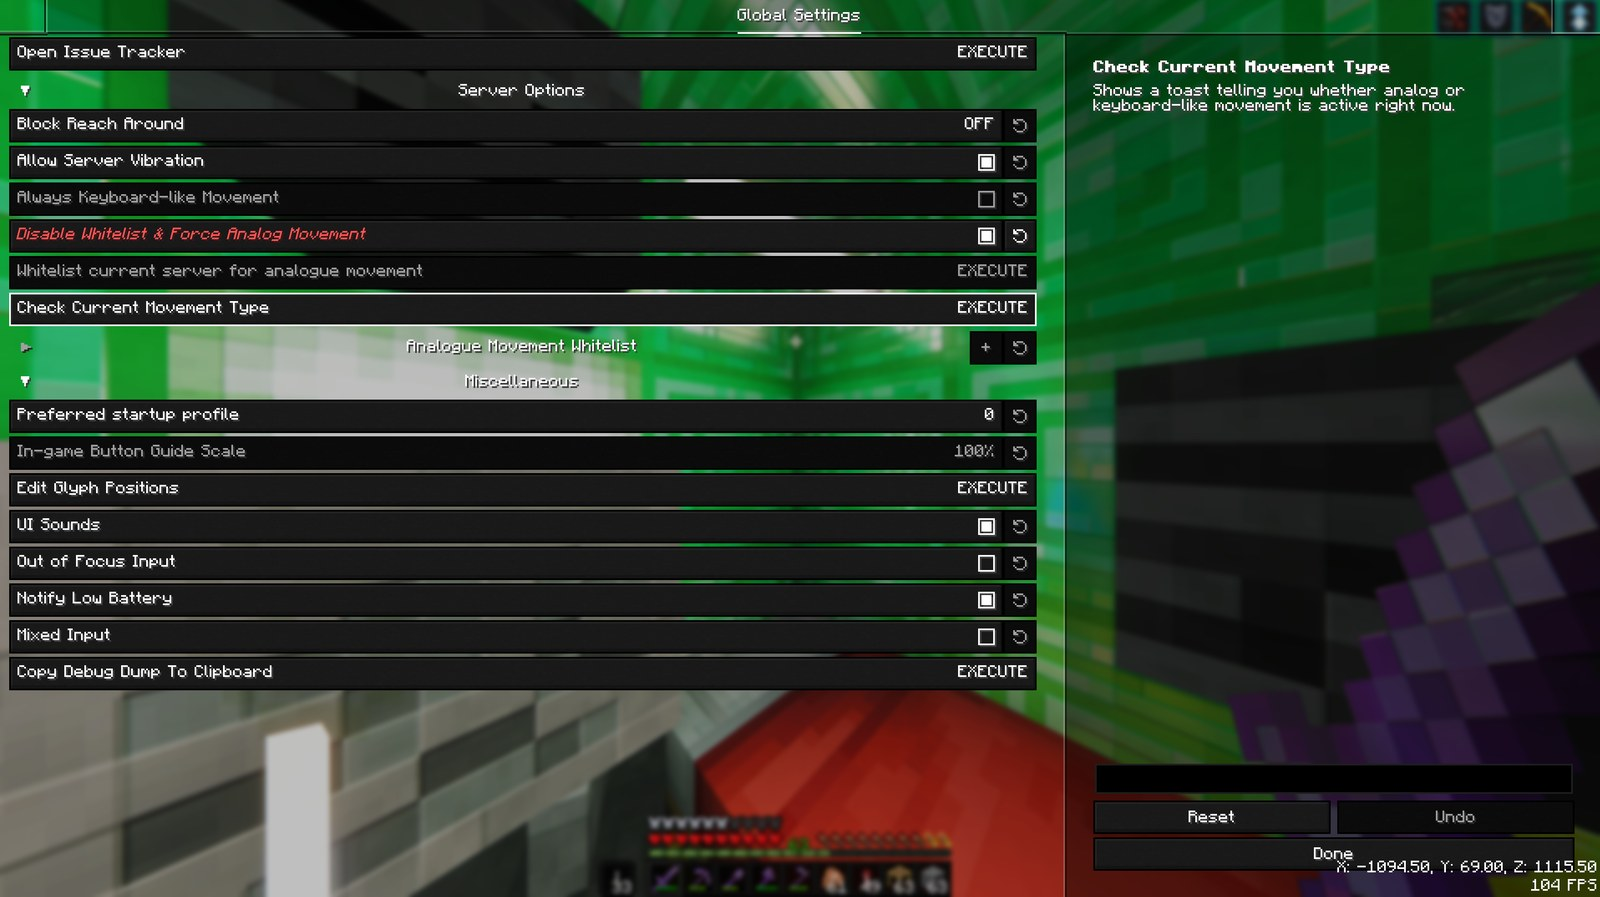
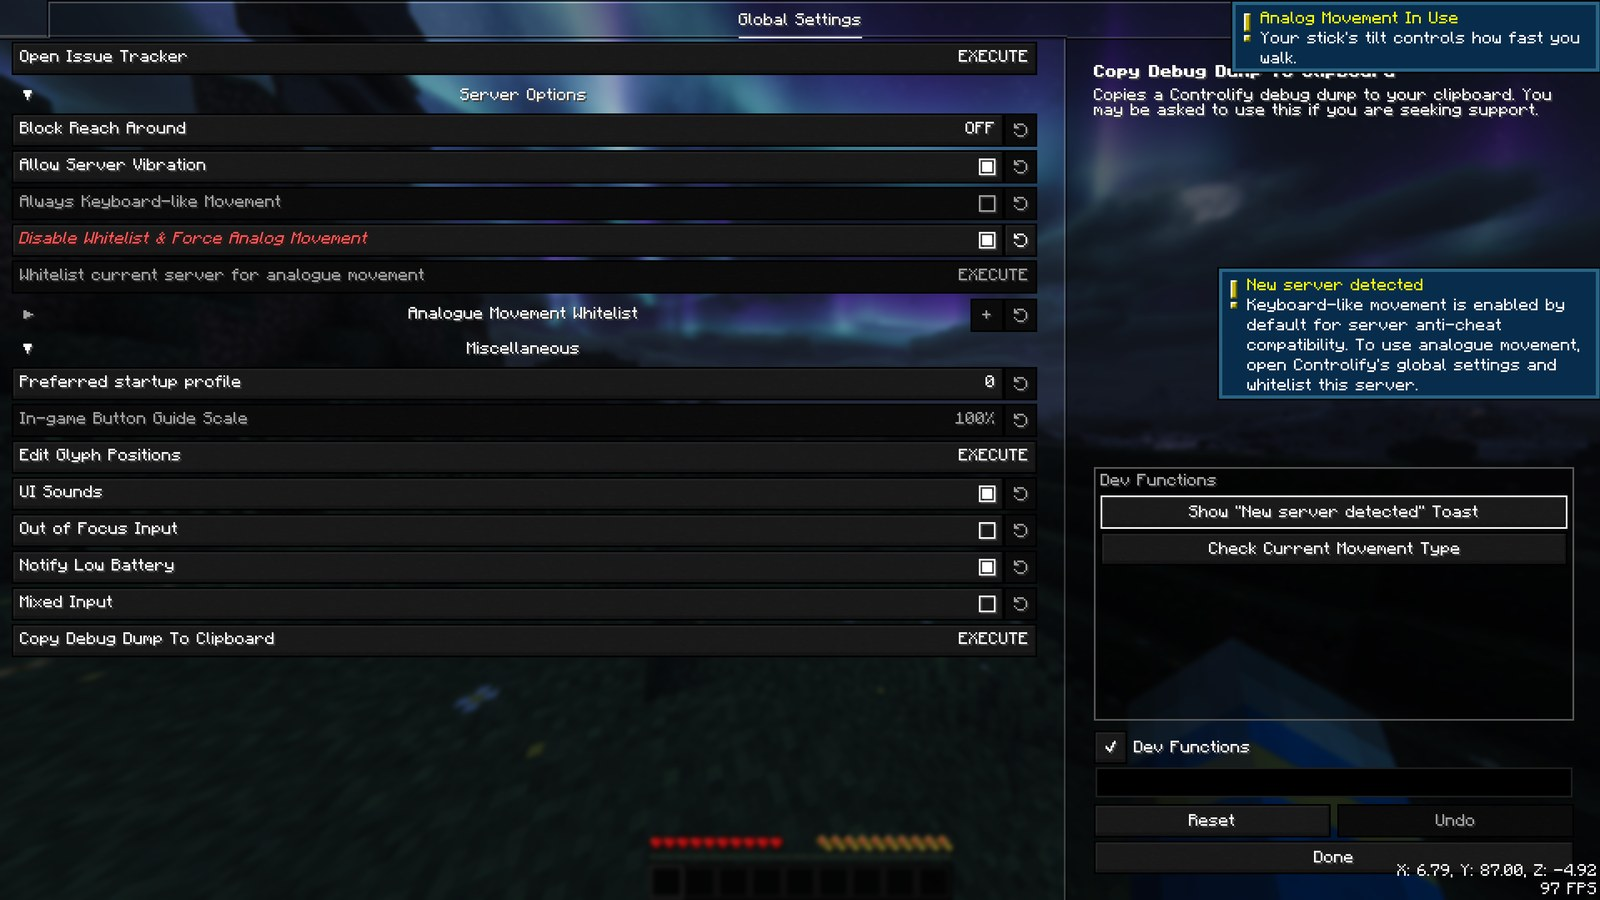
README: add Dev Functions panel section, update screenshot

diff --git a/README.md b/README.md
@@ -10,9 +10,9 @@ A mod that adds the best **controller support** for Minecraft: Java Edition.
 
 ## What's different in this fork
 
-This is an unofficial custom build of isXander's Controlify. It adds three new options to Controlify's **Global Settings** screen, fixes a virtual mouse bug that is suspected to also affect the official 26.3 release, and removes the "New server detected" toast on Realms. Everything else works the same as the official mod.
+This is an unofficial custom build of isXander's Controlify. It adds new options and a **Dev Functions** panel to Controlify's **Global Settings** screen, fixes a virtual mouse bug that is suspected to also affect the official 26.3 release, and removes the "New server detected" toast on Realms. Everything else works the same as the official mod.
 
-<img alt="Global Settings screen with the new options" src="assets/fork/global-settings.jpg" width="700">
+<img alt="Global Settings screen with the new options and the Dev Functions panel" src="assets/fork/global-settings.jpg" width="700">
 
 ### Disable Whitelist & Force Analog Movement
 
@@ -34,13 +34,16 @@ Opens an editor for moving the left and right in-game button guide columns separ
 
 <img alt="In-game button guides moved away from other HUD elements" src="assets/fork/glyphs-moved-in-game.jpg" width="700">
 
-### Check Current Movement Type
+### Dev Functions panel
 
-<img alt="Check Current Movement Type option" src="assets/fork/row-check-movement.png" width="600">
+<img alt="Dev Functions panel" src="assets/fork/dev-functions-panel.png" width="420">
 
-Shows a toast telling you whether analog movement or keyboard-like movement (full speed only, like WASD) is active right now.
+A panel on the right-hand side of Global Settings with test buttons:
 
-<img alt="Check Current Movement Type tooltip" src="assets/fork/tooltip-movement.png" width="450">
+- **Show "New server detected" Toast** pops up that toast exactly as it appears in game.
+- **Check Current Movement Type** shows a toast telling you whether analog movement or keyboard-like movement (full speed only, like WASD) is active right now.
+
+The **Dev Functions** checkbox below the panel hides it. While hidden, its buttons can't be clicked, and your choice is remembered.
 
 ### Virtual mouse fix
 
